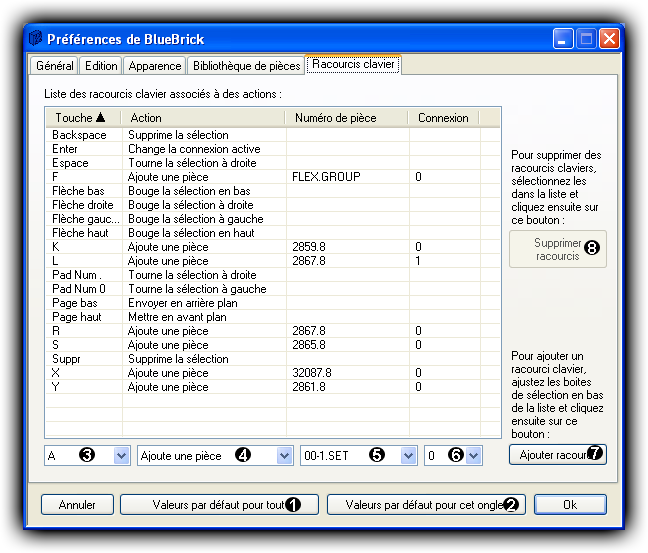
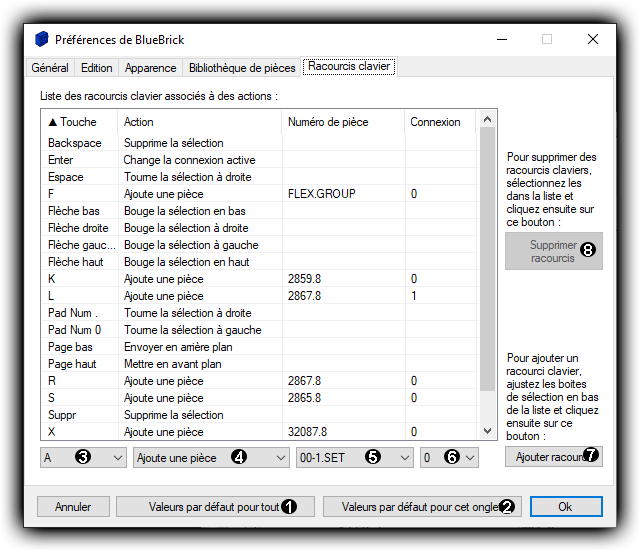
| update PNG for the Preference Shortcut key tab in all language | minor update in the doc of Preference Shortcut key tab

diff --git a/Help/es/Preferences_Shortcut_Keys.htm b/Help/es/Preferences_Shortcut_Keys.htm
@@ -1,16 +1,15 @@
-<HTML>
-<HEAD>
-<!-- Inserted by TRADOS: --><META HTTP-EQUIV="content-type" CONTENT="text/html; charset=windows-1252">
-
-<META NAME="keywords" CONTENT="BlueBrick, Help">
-<META NAME="description" CONTENT="The reference documentation for BlueBrick.">
-<META NAME="author" CONTENT="Alex McKenna">
-<LINK REL=StyleSheet HREF="../BlueBrick.css" TYPE="text/css" MEDIA=screen>
-<Title>Atajos de teclado</Title>
-</HEAD>
-<BODY>
-<H1>Atajos de teclado</H1>
-<h2>Default Shortcut Keys list</h2>
+<html>
+<head>
+<meta http-equiv="content-type" content="text/html; charset=utf-8">
+<meta name="keywords" content="BlueBrick, Help">
+<meta name="description" content="The reference documentation for BlueBrick.">
+<meta name="author" content="Alex McKenna">
+<link rel="StyleSheet" href="../BlueBrick.css" type="text/css" media="screen">
+<title>Atajos de teclado</title>
+</head>
+<body>
+<h1>Atajos de teclado</h1>
+<h2>Lista de teclas de atajo predeterminadas</h2>
 
 <center><table border=1 cellspacing=0 cellpadding=0 style="border-color: #B0CAFD;">
 	<thead>
@@ -30,21 +29,23 @@
 		<tr><td align="center" class="Shortcut">Page Up</td><td class="Shortcut">Bring the selection to the front</td></tr>
 		<tr><td align="center" class="Shortcut">Page Down</td><td class="Shortcut">Send the selection to the back</td></tr>
 		<tr><td align="center" class="Shortcut">Numpad 0</td><td class="Shortcut">Rotate the selection to the left (counter-clockwise)</td></tr>
-		<tr><td align="center" class="Shortcut">Numpad .<br>or space</td><td class="Shortcut">Rotate the selection to the right (clockwise)</td></tr>	
+		<tr><td align="center" class="Shortcut">Numpad .<br>or space</td><td class="Shortcut">Rotate the selection to the right (clockwise)</td></tr>
 		<tr><td align="center" class="Shortcut">&crarr;</td><td class="Shortcut">Change the active connection point of the selected part to the next connection point (of the same part)</td></tr>
 		<tr><td align="center" class="Shortcut">Backspace<br>or Delete</td><td class="Shortcut">Delete the current selection</td></tr>
 	</tbody>
 </table></center>
 
-<h2>How to customize the Shortcut Keys</h2>
+<h2>Cómo personalizar las teclas de atajo</h2>
 
-<CENTER><IMG SRC="Preferences_Shortcut_Keys.png"></CENTER>
+<center><img src="Preferences_Shortcut_Keys.png"></center>
 
-<P>Se pueden <B>a&ntilde;adir atajos de teclado</B> utilizando el men&uacute; desplegable 4 al final de la lista de atajos de teclado (fig. 9c) Elige las teclas del teclado a las que deseas asignar una funci&oacute;n <span class="RefNumber">3</span>, luego la funci&oacute;n que esta tecla debe cumplir <span class="RefNumber">4</span>, la pieza o el n&uacute;mero de set que usar&aacute; <span class="RefNumber">5</span>, y el tipo de conexi&oacute;n que tendr&aacute; <span class="RefNumber">6</span>. Parta completar el proceso pulsa el bot&oacute;n &quot;A&ntilde;adir atajo de teclado&quot; <span class="RefNumber">7</span>.</P>
+<p>El botón <span class="RefNumber">1</span> le permite restaurar todas las preferencias a sus valores por defecto, como cuando instaló BlueBrick por primera vez. El botón <span class="RefNumber">2</span> le permite restaurar sólo las preferencias mostradas en la categoría visible actual.</p>
 
-<P>Nota que un atajo de teclado no se puede editar una vez creado. Debes borrar el atajo si deseas cambiarlo y crear uno nuevo. Pulsar el bot&oacute;n &quot;Restaurar opciones por defecto&quot; 6 se borrar&aacute; cualquier atajo personalizado que hayas creado. Estos cambios ser&aacute;n permanentes una vez que pulses el bot&oacute;n &quot;OK&quot;. Si pulsas &quot;Cancelar&quot; los cambias se descartar&aacute;n.</P>
+<p>Se pueden <b>a&ntilde;adir atajos de teclado</b> utilizando el men&uacute; desplegable 4 al final de la lista de atajos de teclado (fig. 9c) Elige las teclas del teclado a las que deseas asignar una funci&oacute;n <span class="RefNumber">3</span>, luego la funci&oacute;n que esta tecla debe cumplir <span class="RefNumber">4</span>, la pieza o el n&uacute;mero de set que usar&aacute; <span class="RefNumber">5</span>, y el tipo de conexi&oacute;n que tendr&aacute; <span class="RefNumber">6</span>. Parta completar el proceso pulsa el bot&oacute;n &quot;A&ntilde;adir atajo de teclado&quot; <span class="RefNumber">7</span>.</p>
 
-<P>Nota que el bot&oacute;n &quot;Restaurar opciones por defecto&quot; <span class="RefNumber">1</span> resetea todas las opciones de las 5 pesta&ntilde;as a la vez. No solo resetea las configuraciones de la pesta&ntilde;a que est&aacute;s viendo.  Estos cambios ser&aacute;n permanentes una vez que pulses el bot&oacute;n &quot;OK&quot;. Si pulsas &quot;Cancelar&quot; los cambias se descartar&aacute;n.</P>
+<p>Nota que un atajo de teclado no se puede editar una vez creado. Debes borrar el atajo si deseas cambiarlo y crear uno nuevo. <b>Para eliminar un atajo</b>, selecciónelo y presione el botón "Eliminar el atajo" <span class="RefNumber">8</span>. También puedes eliminar o reasignar los atajos predeterminados si no te gustan.</p>
 
-</BODY>
-</HTML>
+<p>Estos cambios ser&aacute;n permanentes una vez que pulses el bot&oacute;n &quot;OK&quot;. Si pulsas &quot;Cancelar&quot; los cambias se descartar&aacute;n.</p>
+
+</body>
+</html>

diff --git a/Help/de/Preferences_Shortcut_Keys.htm b/Help/de/Preferences_Shortcut_Keys.htm
@@ -1,14 +1,14 @@
-<HTML>
-<HEAD>
-<META NAME="keywords" CONTENT="BlueBrick, Help">
-<META NAME="description" CONTENT="The reference documentation for BlueBrick.">
-<META NAME="author" CONTENT="Alex McKenna">
-<LINK REL=StyleSheet HREF="../BlueBrick.css" TYPE="text/css" MEDIA=screen>
-<Title>Tastaturkürzel</Title>
-</HEAD>
-<BODY>
-<H1>Tastaturkürzel</H1>
-<h2>Default Shortcut Keys list</h2>
+<html>
+<head>
+<meta name="keywords" content="BlueBrick, Help">
+<meta name="description" content="The reference documentation for BlueBrick.">
+<meta name="author" content="Alex McKenna">
+<link rel="StyleSheet" href="../BlueBrick.css" type="text/css" media="screen">
+<title>Tastaturkürzel</title>
+</head>
+<body>
+<h1>Tastaturkürzel</h1>
+<h2>Liste der Standardtastenkombinationen</h2>
 
 <center><table border=1 cellspacing=0 cellpadding=0 style="border-color: #B0CAFD;">
 	<thead>
@@ -34,19 +34,17 @@
 	</tbody>
 </table></center>
 
-<h2>How to customize the Shortcut Keys</h2>
+<h2>So passen Sie die Tastenkombinationen an</h2>
 
-<CENTER><IMG SRC="Preferences_Shortcut_Keys.png"></CENTER>
+<center><img src="Preferences_Shortcut_Keys.png"></center>
 
-<P><B>Hinzufügen von Tastaturkürzeln</B> ist mit Hilfe der vier Auswahlmenüs unterhalb der Tastaturkürzel-Liste (Menü Bearbeiten, Allgemeine Einstellungen...) möglich:</P>
+<p>Mit der Schaltfläche <span class="RefNumber">1</span> können Sie alle Einstellungen auf ihre Standardwerte zurücksetzen, wie bei der Erstinstallation von BlueBrick. Mit der Schaltfläche <span class="RefNumber">2</span> können Sie nur die Einstellungen wiederherstellen, die in der aktuell sichtbaren Kategorie angezeigt werden.</p>
 
-<P>Wähle zuerst die Taste aus <span class="RefNumber">3</span>, der eine Funktion zugeordnet werden soll, und dann die Funktion <span class="RefNumber">4</span>. Bei der Funktion "Teil hinzufügen" muss noch die Teil- oder Setnummer ausgewählt <span class="RefNumber">5</span> und der Verbindungstyp <span class="RefNumber">6</span> angegeben werden. Zum Abschluss muss nur noch die Schaltfläche "Tastenkürzel hinzufügen" <span class="RefNumber">7</span> angeklickt werden.</P>
+<P><B>Hinzufügen von Tastaturkürzeln</B> ist mit Hilfe der vier Auswahlmenüs unterhalb der Tastaturkürzel-Liste (Menü Bearbeiten, Allgemeine Einstellungen...) möglich: Wähle zuerst die Taste aus <span class="RefNumber">3</span>, der eine Funktion zugeordnet werden soll, und dann die Funktion <span class="RefNumber">4</span>. Bei der Funktion "Teil hinzufügen" muss noch die Teil- oder Setnummer ausgewählt <span class="RefNumber">5</span> und der Verbindungstyp <span class="RefNumber">6</span> angegeben werden. Zum Abschluss muss nur noch die Schaltfläche "Tastenkürzel hinzufügen" <span class="RefNumber">7</span> angeklickt werden.</P>
 
 <P>Ein Tastaturkürzel kann nicht direkt geändert werden. Um einer Taste eine andere Funktion zuzuweisen, muss zunächst das Tastaturkürzel gelöscht werden. Danach kann der Taste eine neue Funktion zugewiesen werden.</p>
 
-<p> Mit Anklicken der Schaltfläche "Standard wiederherstellen" <span class="RefNumber">2</span> werden alle selbst erstellten Tastaturkürzel gelöscht. Pressing the "Restore All to Default" button <span class="RefNumber">1</span> will also delete any change in the shortcuts but will also resets the settings on all the tabs at the same time.</p>
+<p>Wird dann die Schaltfläche "Ok" angeklickt, werden die Standardeinstellungen wieder eingestellt.</P>
 
-<p>Wird dann die Schaltfläche "Ja" angeklickt, werden die Standardeinstellungen wieder eingestellt.</P>
-
-</BODY>
-</HTML>
+</body>
+</html>

diff --git a/Help/nl/Preferences_Shortcut_Keys.htm b/Help/nl/Preferences_Shortcut_Keys.htm
@@ -1,14 +1,14 @@
-<HTML>
-<HEAD>
-<META NAME="keywords" CONTENT="BlueBrick, Help">
-<META NAME="description" CONTENT="The reference documentation for BlueBrick.">
-<META NAME="author" CONTENT="Alex McKenna">
-<LINK REL=StyleSheet HREF="../BlueBrick.css" TYPE="text/css" MEDIA=screen>
-<Title>Sneltoetsen</Title>
-</HEAD>
-<BODY>
-<H1>Sneltoetsen</H1>
-<h2>Default Shortcut Keys list</h2>
+<html>
+<head>
+<meta name="keywords" content="BlueBrick, Help">
+<meta name="description" content="The reference documentation for BlueBrick.">
+<meta name="author" content="Alex McKenna">
+<link rel="StyleSheet" href="../BlueBrick.css" type="text/css" media="screen">
+<title>Sneltoetsen</title>
+</head>
+<body>
+<h1>Sneltoetsen</h1>
+<h2>Standaard lijst met sneltoetsen</h2>
 
 <center><table border=1 cellspacing=0 cellpadding=0 style="border-color: #B0CAFD;">
 	<thead>
@@ -34,15 +34,17 @@
 	</tbody>
 </table></center>
 
-<h2>How to customize the Shortcut Keys</h2>
+<h2>Hoe u de sneltoetsen kunt aanpassen</h2>
 
-<CENTER><IMG SRC="Preferences_Shortcut_Keys.png"></CENTER>
+<center><img src="Preferences_Shortcut_Keys.png"></center>
+
+<p>Met de knop <span class="RefNumber">1</span> kun je alle voorkeuren terugzetten naar hun standaardwaarden, zoals toen je BlueBrick voor de eerste keer installeerde. Met de knop <span class="RefNumber">2</span> kun je alleen de voorkeuren herstellen die in de huidige zichtbare categorie worden weergegeven.</p>
 
 <P><B>Het toevoegen van sneltoetsen</B> kan worden gedaan met behulp van de 4 drop down menu's aan de onderkant van de lijst met snelkoppelingen (fig. 9c). Kies de toets op je toetsenbord die je wilt gebruiken voor de functie <span class="RefNumber">3</span>, vervolgens de functie die door deze toets uitgevoerd moet worden <span class="RefNumber">4</span>, het onderdeel of het setnummer dat moet worden gebruikt <span class="RefNumber">5</span> en het type verbinding <span class="RefNumber">6</span>. Klik op de knop "Voeg Shortcut toe" <span class="RefNumber">7</span> om te bevestigen.</P>
 
-<P>Merk op dat een shortcut niet kan worden bewerkt nadat deze is aangemaakt. Je dient de snelkoppeling te verwijderen die je wilt wijzigen en vervolgens een nieuwe aanmaken. Door op de "Herstel standaarden" knop <span class="RefNumber">1</span> te klikken zullen alle aangepaste shortcuts worden verwijderd. zal verwijderen aangepaste snelkoppelingen die u hebt gemaakt. Deze wijzigingen zijn definitief zodra je op de "OK" knop klikt.  Als je op "Annuleren" klikt zullen de wijzigingen worden verwijderd.</P>
+<p>Houd er rekening mee dat een snelkoppeling niet kan worden bewerkt als deze eenmaal is gemaakt. U moet de snelkoppeling die u wilt wijzigen verwijderen en een nieuwe maken. <b>Om een snelkoppeling te verwijderen</b>, selecteert u deze en drukt u op de knop "Snelkoppeling verwijderen" <span class="RefNumber">8</span>. U kunt de standaardsnelkoppelingen ook verwijderen of opnieuw toewijzen als u ze niet leuk vindt.</p>
 
-<P>Merk op dat de Herstel standaarden knop <span class="RefNumber">1</span> de instellingen op alle 5 de tabs tegelijk reset. Het reset niet alleen de instellingen op het tabblad dat je momenteel aan het bekijken bent. De wijzigingen worden definitief zodra je op de "OK" knop klikt.  Als je op "Cancel" klikt worden de veranderingen weggegooid.</P>
+<p>Deze wijzigingen zijn definitief zodra u op de knop "OK" drukt. Als u op "Annuleren" drukt, worden de wijzigingen verwijderd.</p>
 
-</BODY>
-</HTML>
+</body>
+</html>

diff --git a/Help/fr/Preferences_Shortcut_Keys.htm b/Help/fr/Preferences_Shortcut_Keys.htm
@@ -1,14 +1,15 @@
 <html>
 <head>
+<meta http-equiv="content-type" content="text/html; charset=utf-8">
 <meta name="keywords" content="BlueBrick, Help">
 <meta name="description" content="The reference documentation for BlueBrick.">
 <meta name="author" content="Alex McKenna">
 <link rel="StyleSheet" href="../BlueBrick.css" type="text/css" media="screen">
-<title>Shortcut Keys</title>
+<title>Racourcis Clavier</title>
 </head>
 <body>
-<h1>Shortcut Keys</h1>
-<h2>Default Shortcut Keys list</h2>
+<h1>Racourcis Clavier</h1>
+<h2>Liste par défaut des racourcis clavier</h2>
 
 <center><table border=1 cellspacing=0 cellpadding=0 style="border-color: #B0CAFD;">
 	<thead>
@@ -34,15 +35,15 @@
 	</tbody>
 </table></center>
 
-<h2>How to customize the Shortcut Keys</h2>
+<h2>Comment configurer les racourcis clavier</h2>
 
 <center><img src="Preferences_Shortcut_Keys.png"></center>
+
+<p>Le bouton <span class="RefNumber">1</span> vous permet de restaurer toutes les préférences aux valeurs par défaut, comme lorsque vous avez installé BlueBrick pour la première fois. Le bouton <span class="RefNumber">2</span> vous permet de ne restaurer que les préférences affichées sur la catégorie visible actuellement.</p>
 
 <p><b>Adding Shortcut Keys</b> can be done using the four drop down menus at the bottom of the Shortcut list. Choose each the Key on you keyboard to which you would like to assign the function <span class="RefNumber">3</span>, then which function this key is supposed to perform <span class="RefNumber">4</span>, the part or set number which it will use <span class="RefNumber">5</span> if needed, and the connection type that should be used during the action <span class="RefNumber">6</span> if needed. To complete the addition Press the "Add Shortcut" button <span class="RefNumber">7</span>.</p>
 
 <p>Note that a short cut can not be edited once it has been created. You must delete the shortcut you want to change, and create a new one. <b>To delete a shortcut</b>, select it and press the "Remove Shortcut" button <span class="RefNumber">8</span>. You can also delete or reassign the default shortcuts if you don't like them.</p>
-
-<p>Pressing the "Restore this Tab to Default" button <span class="RefNumber">2</span>, will delete any custom shortcuts you have made. Pressing the "Restore All to Default" button <span class="RefNumber">1</span> will also delete any change in the shortcuts but will also resets the settings on all the tabs at the same time.</p>
 
 <p>These changes will be permanent once you press the "OK" button. If you press "Cancel" the changes will be discarded.</p>
 

diff --git a/Help/en/Preferences_Shortcut_Keys.htm b/Help/en/Preferences_Shortcut_Keys.htm
@@ -38,11 +38,11 @@
 
 <center><img src="Preferences_Shortcut_Keys.png"></center>
 
+<p>The button <span class="RefNumber">1</span> let you restore all the preferences to their default values, as when you installed BlueBrick for the first time. The button <span class="RefNumber">2</span> let you restore only the preferences displayed on the current visible category.</p>
+
 <p><b>Adding Shortcut Keys</b> can be done using the four drop down menus at the bottom of the Shortcut list. Choose each the Key on you keyboard to which you would like to assign the function <span class="RefNumber">3</span>, then which function this key is supposed to perform <span class="RefNumber">4</span>, the part or set number which it will use <span class="RefNumber">5</span> if needed, and the connection type that should be used during the action <span class="RefNumber">6</span> if needed. To complete the addition Press the "Add Shortcut" button <span class="RefNumber">7</span>.</p>
 
 <p>Note that a short cut can not be edited once it has been created. You must delete the shortcut you want to change, and create a new one. <b>To delete a shortcut</b>, select it and press the "Remove Shortcut" button <span class="RefNumber">8</span>. You can also delete or reassign the default shortcuts if you don't like them.</p>
-
-<p>Pressing the "Restore this Tab to Default" button <span class="RefNumber">2</span>, will delete any custom shortcuts you have made. Pressing the "Restore All to Default" button <span class="RefNumber">1</span> will also delete any change in the shortcuts but will also resets the settings on all the tabs at the same time.</p>
 
 <p>These changes will be permanent once you press the "OK" button. If you press "Cancel" the changes will be discarded.</p>
 
